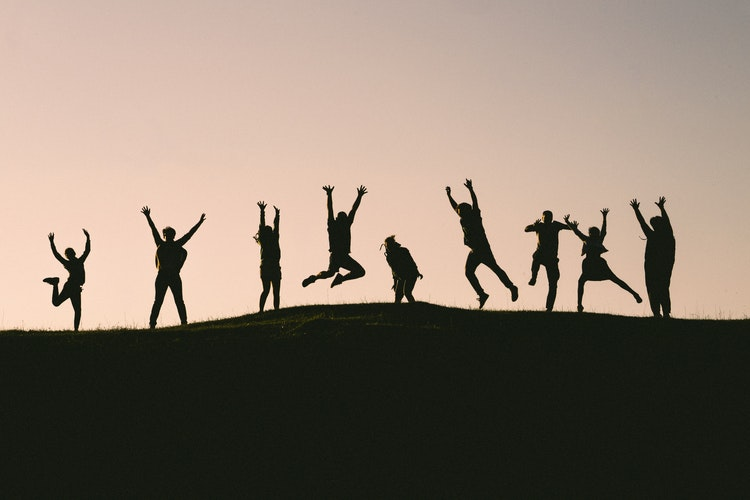
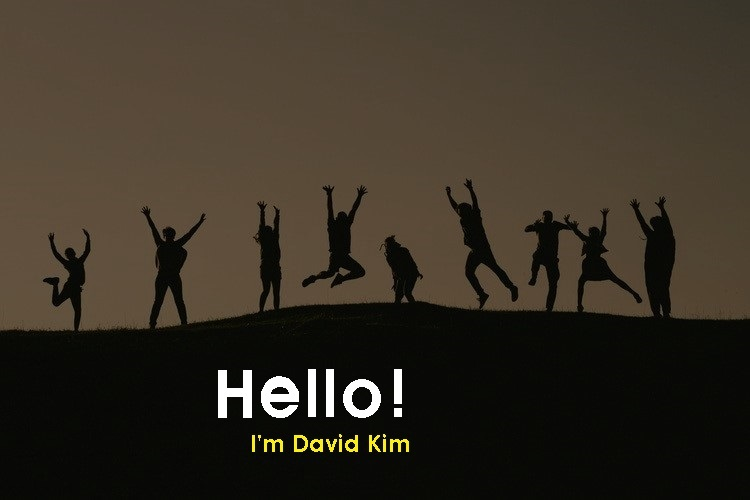
removed home background pic and replaced with intro

diff --git a/css/style.css b/css/style.css
@@ -30,6 +30,7 @@ box-flex:  0;
 
 
 .main {
+  background: aliceblue;
  -ms-flex: 1;
  -webkit-box-flex: 1;
  -moz-box-flex: 1;
@@ -78,25 +79,6 @@ box-flex:  0;
   position: relative;
   width: 100%;
   height: auto;
-  filter: grayscale(100%);
-  z-index: -1;
-}
-
-.home-intro {
-  position: absolute;
-  top: 78%;
-  left: 25%;
-  transform: translate(-50%, -50%);
-}
-
-.home-intro-greeting {
-  color: WHITE;
-  font-size: 88px;
-}
-
-.home-intro-name {
-  color: #fed900;
-  font-size: 32px;
 }
 
 .my-pic {
@@ -105,4 +87,10 @@ box-flex:  0;
   height: 190px;
   width: 180px;
   border-radius: 50%;
+}
+
+.intro {
+  position: absolute;
+  margin-left: 50%;
+  margin-top: 20%;
 }

diff --git a/pages/resume.html b/pages/resume.html
@@ -24,6 +24,8 @@
         <div class="right-container">
           <div class='main-home' background='assets/images/jumping-background.jpg'>
             <img src="assets/images/jumping-background.jpg" alt="jump" class='home-img'>
+            <div>
+              
           </div>
         </div>
     </div>

diff --git a/index.html b/index.html
@@ -21,8 +21,12 @@
     </div>
 
     <div class="main">
-      <img src="assets/images/jumping-background.jpg" alt="jump" class='home-img'></img>
+      <div class='intro'>
+        <h1>Hello!</h1>
+        <p>I am David Kim.</p>
+      </div>
     </div>
+
   </div>
 </body>
 </html>
